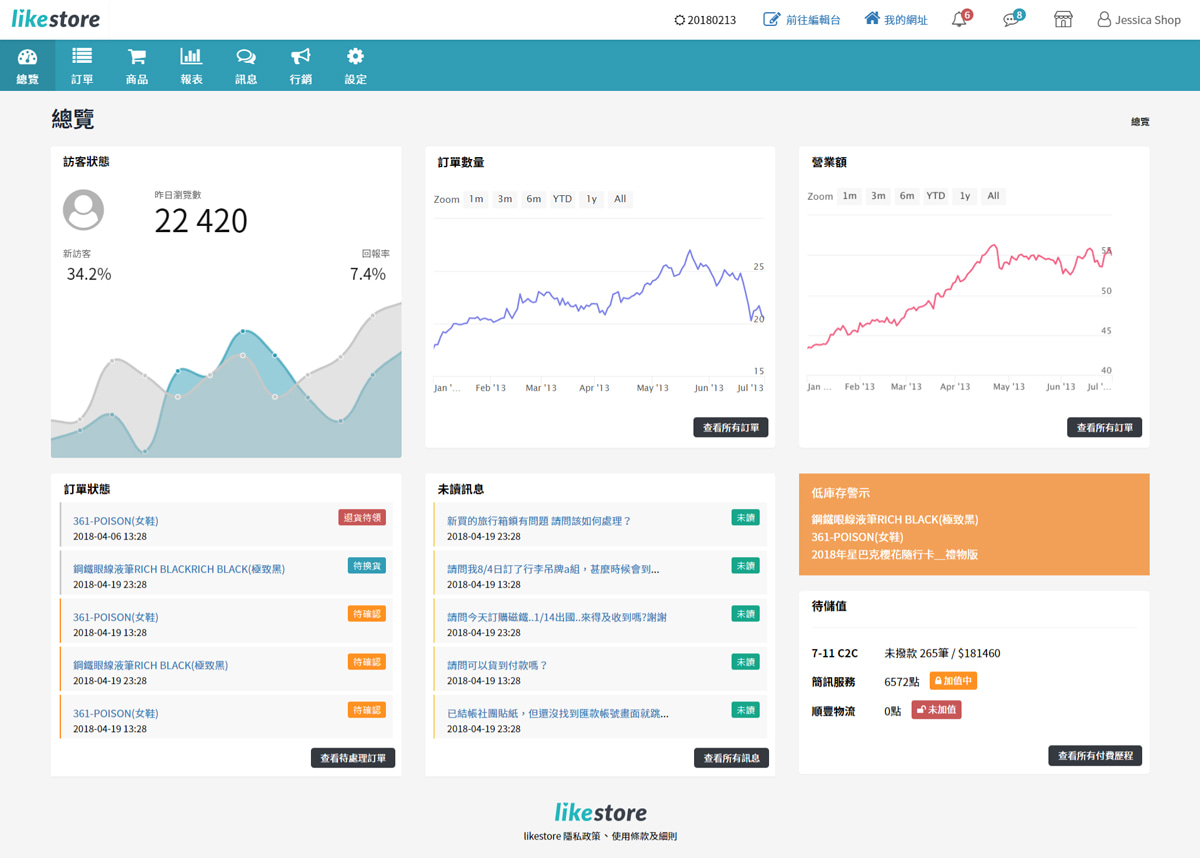
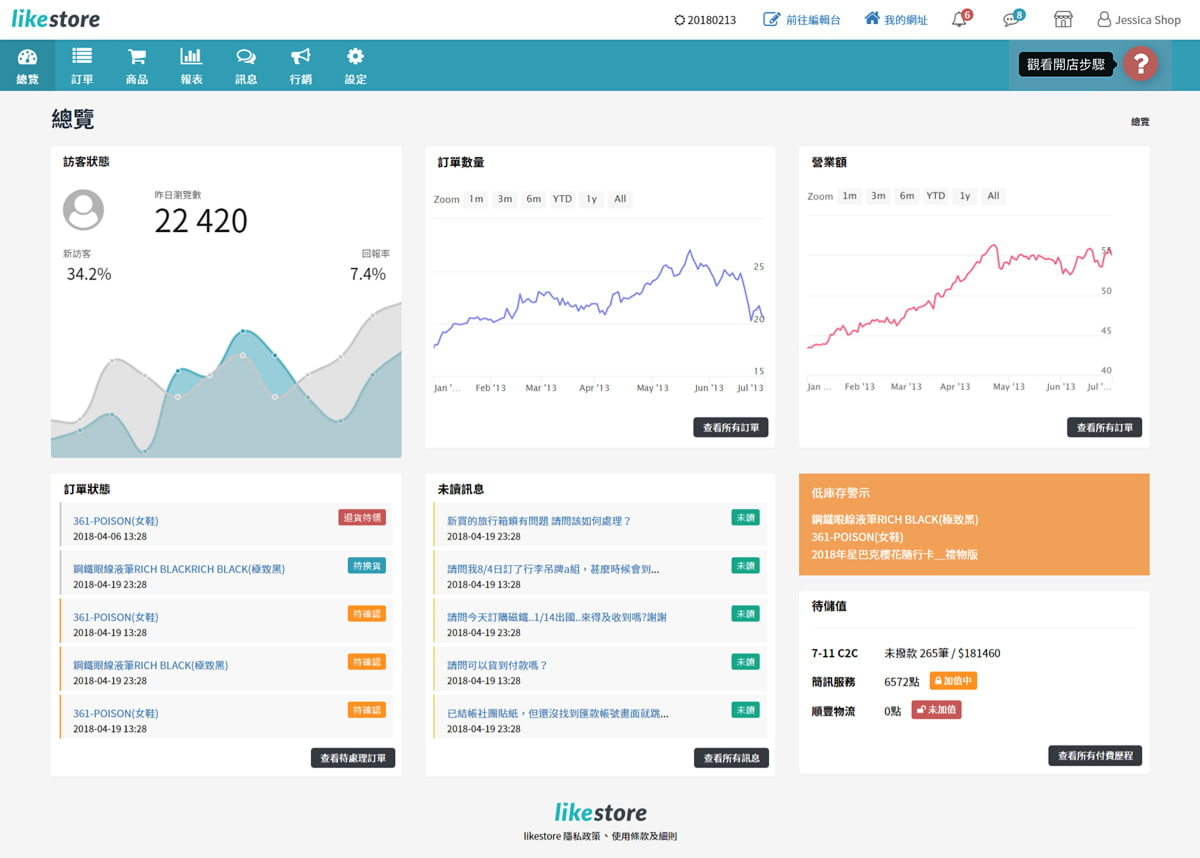
Add onboarding flow to likestore

diff --git a/work/projects/likestore-console.html b/work/projects/likestore-console.html
@@ -95,8 +95,29 @@
 					</picture>
 				</figure>
 			</section>
+			<h3 class="f-30 txt-center animated wow fadeIn pt-3" data-wow-duration="1.0s" data-wow-delay=".2s">Onboarding</h3>
+			<section class="section-desc flow-demo">
+				<figure class="animated wow fadeIn pt-1 txt-left" data-wow-duration="1.0s" data-wow-delay=".2s">
+					<figcaption style="margin-bottom: 2rem;">
+						<p class="f-20 mb-1">Commercial Goal: <span style="color: gray">Increase user registration rate, Increase transaction and fee income, Increase subscription</span></p>
+						<p class="f-20 mb-1">Usability Goal: <span style="color:gray">Easy to use and help user to understand core function</span></p>
+					</figcaption>		
+					<picture>
+						<source media="(max-width: 600px)" srcset="/images/likestore/likestore-onboarding-small.jpg" alt="">
+						<source media="(min-width: 601px)" srcset="/images/likestore/likestore-onboarding.jpg" alt="">
+						<img src="/images/likestore/likestore-onboarding.jpg" alt="">
+					</picture>
+				</figure>
+			</section>
 		</div>
 		<section class="section-demo mb-2">
+			<figure class="animated wow fadeIn" data-wow-duration="1.0s" data-wow-delay=".2s">
+				<picture>
+					<source media="(max-width: 600px)" srcset="/images/likestore/likestore030-small.jpg" alt="">
+					<source media="(min-width: 601px)" srcset="/images/likestore/likestore030.jpg" alt="">
+					<img src="/images/likestore/likestore030.jpg" alt="">
+				</picture>
+			</figure>
 			<figure class="border-radius animated wow fadeIn" data-wow-duration="1.0s" data-wow-delay=".2s">
 				<picture>
 					<source media="(max-width: 600px)" srcset="/images/likestore/likestore024-small.jpg" alt="">
@@ -116,6 +137,13 @@
 					<source media="(max-width: 600px)" srcset="/images/likestore/likestore027-small.jpg" alt="">
 					<source media="(min-width: 601px)" srcset="/images/likestore/likestore027.jpg" alt="">
 					<img src="/images/likestore/likestore027.jpg" alt="">
+				</picture>
+			</figure>
+			<figure class="border-radius animated wow fadeIn" data-wow-duration="1.0s" data-wow-delay=".2s">
+				<picture>
+					<source media="(max-width: 600px)" srcset="/images/likestore/likestore-product-small.jpg" alt="">
+					<source media="(min-width: 601px)" srcset="/images/likestore/likestore-product.jpg" alt="">
+					<img src="/images/likestore/likestore-product.jpg" alt="">
 				</picture>
 			</figure>
 		</section>
@@ -182,8 +210,9 @@
 	<section class="section-desc flow-demo">
 		<figure class="pt-3 animated wow fadeIn" data-wow-duration="1.0s" data-wow-delay=".2s">
 			<figcaption>
-				<p class="f-20 mb-1"><span style="color: gray">• By lowering the operational threshold, the platform helps small and micro-sized businesses build their official websites with zero technical background.</span></p> 
-				<p class="f-20 mb-1"><span style="color: gray">• At the time, the platform had accumulated nearly 1,000 trial users and 200 officially launched stores.</span></p>
+				<p class="f-20 mb-1"><span style="color: gray">By lowering the operational threshold, the platform helps small and micro-sized businesses build their official websites with zero technical background.</span></p> 
+				<p class="f-20 mb-1">Outcome: <span style="color: gray">At the time, the platform had accumulated nearly 1,000 trial users and 200 officially launched stores.</span></p>
+				<p class="f-20 mb-1">Reflections: <span style="color: gray">As a designer and front-end developer, I should write specifications carefully and ensure that each component has a clear use case.</span></p>
 			</figcaption>
 		</figure>
 	</section>